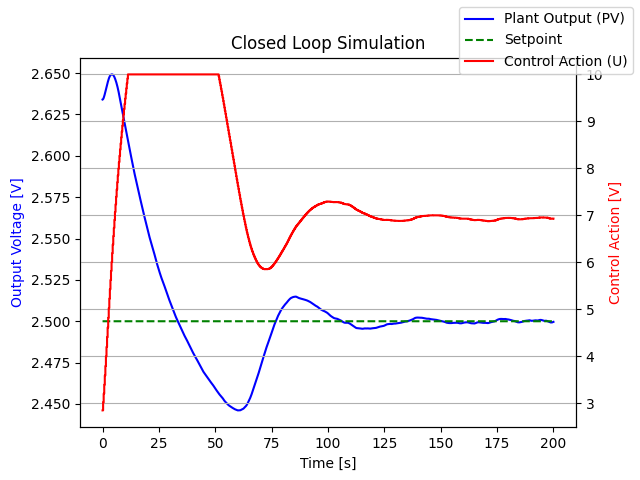
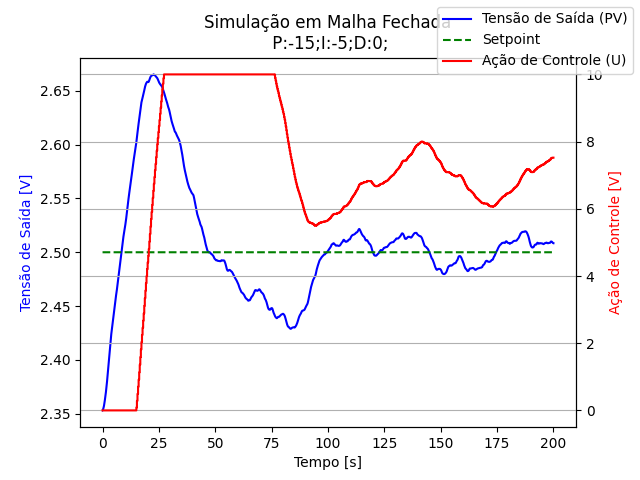
atualiza geracao de ruido

diff --git a/TapSimulator.py b/TapSimulator.py
@@ -1,5 +1,4 @@
 import math
-import random
 from scipy import integrate
 import numpy as np
 from typing import List
@@ -8,21 +7,20 @@ import matplotlib.pyplot as plt
 class TapSimulator:
     def __init__(self):
         self.vin = 10
-        self.R = 0.1
+        self.R = 15
         self.tau1 = 0.8902
         self.tau2 = 26.8097
         self.r = math.pi / 10
         self.k = -0.1093
         self.ybar = (3.023 + 2.353) / 2
-        self.noiseVariance = 0.2
-        self.standartVariation = math.sqrt(self.noiseVariance)
-        self.noiseGain = self.k
+        self.noiseVariance = 2.2287e-4
+        self.standartDeviation = math.sqrt(self.noiseVariance)
 
     def __F(self, theta: float) -> float:
         return (-(math.pi/2 - theta/2 + math.sin(2*theta)/4))
 
     def generate_noise(self):
-        return np.random.normal(0, abs(self.noiseGain))
+        return np.random.normal(0,self.standartDeviation)
 
     def __plant(self, t, y, u, noise):
         x1, x2 = y
@@ -30,7 +28,7 @@ class TapSimulator:
         F_r_uclipped = self.__F(self.r * uclipped)
 
         x1dot = x2
-        x2dot = (self.k * (F_r_uclipped + math.pi / 4) / self.r + noise * self.noiseVariance - (x1 - self.ybar) - x2 * (self.tau1 + self.tau2)) / (self.tau1 * self.tau2)
+        x2dot = (self.k * (F_r_uclipped + math.pi / 4) / self.r + self.R*noise - (x1 - self.ybar) - x2 * (self.tau1 + self.tau2)) / (self.tau1 * self.tau2)
         
         return [x1dot, x2dot]
 
@@ -41,42 +39,44 @@ class TapSimulator:
     
 
 if __name__ == "__main__":
-    x0 = 0
+    x0 = 2.353
     dxdt = 0
     y0 = np.array([x0, dxdt])
 
     TapSimulator = TapSimulator()
-    simulationPeriod = 1
+    simulationPeriod = .25
 
     # Lista de valores de u para cada degrau
-    u_values = np.concatenate((np.full(180, 5), np.full(180, 3)))
+    u_values = np.concatenate((np.full(200*4, 5), np.full(200*4, 3)))
+    u_values = np.concatenate((u_values, u_values))
     u0 = 5
 
     u_vector = []
+    y_vector = []
 
     fig, ax1 = plt.subplots()
 
     # Simulação para cada degrau
     for i in range(len(u_values)):
         u = u_values[i]
-        num_of_points =  math.floor((simulationPeriod*1000)/5)
         noise = TapSimulator.generate_noise()
         result = TapSimulator.simulate(y0, u, simulationPeriod, noise)  # Comece cada degrau a partir do anterior
         t = np.linspace(i * simulationPeriod, (i + 1) * simulationPeriod, len(result))  # Intervalo de tempo para cada degrau
         y0 = result[-1]
 
-        ax1.plot(t, result[:, 0])
-        
+        y_vector = np.append(y_vector, result[:,0])        
         u_vector = np.append(u_vector, np.full(len(result), u))
 
 
-    t_vector = np.linspace(0, len(u_values), len(u_values)*len(result))
+    t_vector = np.linspace(0, len(u_values)*simulationPeriod, len(u_values)*len(result))
+    ax1.plot(t_vector, y_vector, color="b")
+    ax1.set_ylim([2.5, 2.9])
 
     ax1.set_xlabel('Tempo [s]')
     ax1.set_ylabel('Tensão Saída [V]')
 
     ax2 = ax1.twinx()
-    ax2.plot(t_vector, u_vector)
+    ax2.plot(t_vector, u_vector, color="r")
     ax2.set_ylabel('Tensão Entrada [V]')
 
     plt.title('Simulação torneira')

diff --git a/ClosedLoopSimulation.py b/ClosedLoopSimulation.py
@@ -17,7 +17,7 @@ class ClosedLoopSimulator:
         self.setpoint = setpoint
 
     def run_simulation(self, simulation_time_sec):
-        x0 = 2.5+.134
+        x0 = MIN_SETPOINT
         dxdt = 0
         y0 = np.array([x0, dxdt])
         num_steps = int(simulation_time_sec / self.TS)
@@ -43,19 +43,19 @@ class ClosedLoopSimulator:
     def plot_results(self, time_list, pv_list, control_action_list):
         fig, ax1 = plt.subplots()
 
-        ax1.plot(time_list, pv_list, label='Plant Output (PV)', color='b')
-        ax1.set_xlabel('Time [s]')
-        ax1.set_ylabel('Output Voltage [V]', color='b')
+        ax1.plot(time_list, pv_list, label='Tensão de Saída (PV)', color='b')
+        ax1.set_xlabel('Tempo [s]')
+        ax1.set_ylabel('Tensão de Saída [V]', color='b')
 
         # Add setpoint line
         setpoint_list = [self.setpoint] * len(time_list)
         ax1.plot(time_list, setpoint_list, label='Setpoint', color='g', linestyle='--')
 
         ax2 = ax1.twinx()
-        ax2.plot(time_list, control_action_list, label='Control Action (U)', color='r')
-        ax2.set_ylabel('Control Action [V]', color='r')
+        ax2.plot(time_list, control_action_list, label='Ação de Controle (U)', color='r')
+        ax2.set_ylabel('Ação de Controle [V]', color='r')
 
-        plt.title('Closed Loop Simulation')
+        plt.title(f'Simulação em Malha Fechada\n P:{self.pid_controller.KP};I:{self.pid_controller.KI};D:{self.pid_controller.KD};')
         fig.legend(loc='upper right')
         plt.grid(True)
         plt.savefig("closed_loop.png")
@@ -66,5 +66,5 @@ class ClosedLoopSimulator:
 
 if __name__ == "__main__":
     #this controller has good results
-    closed_loop_simulator = ClosedLoopSimulator(kp=-20, ki=-5, kd=0, setpoint=AVG_SETPOINT, TS=0.25)
+    closed_loop_simulator = ClosedLoopSimulator(kp=-15, ki=-5, kd=0, setpoint=AVG_SETPOINT, TS=0.25)
     closed_loop_simulator.run_simulation(simulation_time_sec=200)  # Simulate for 6 minutes
